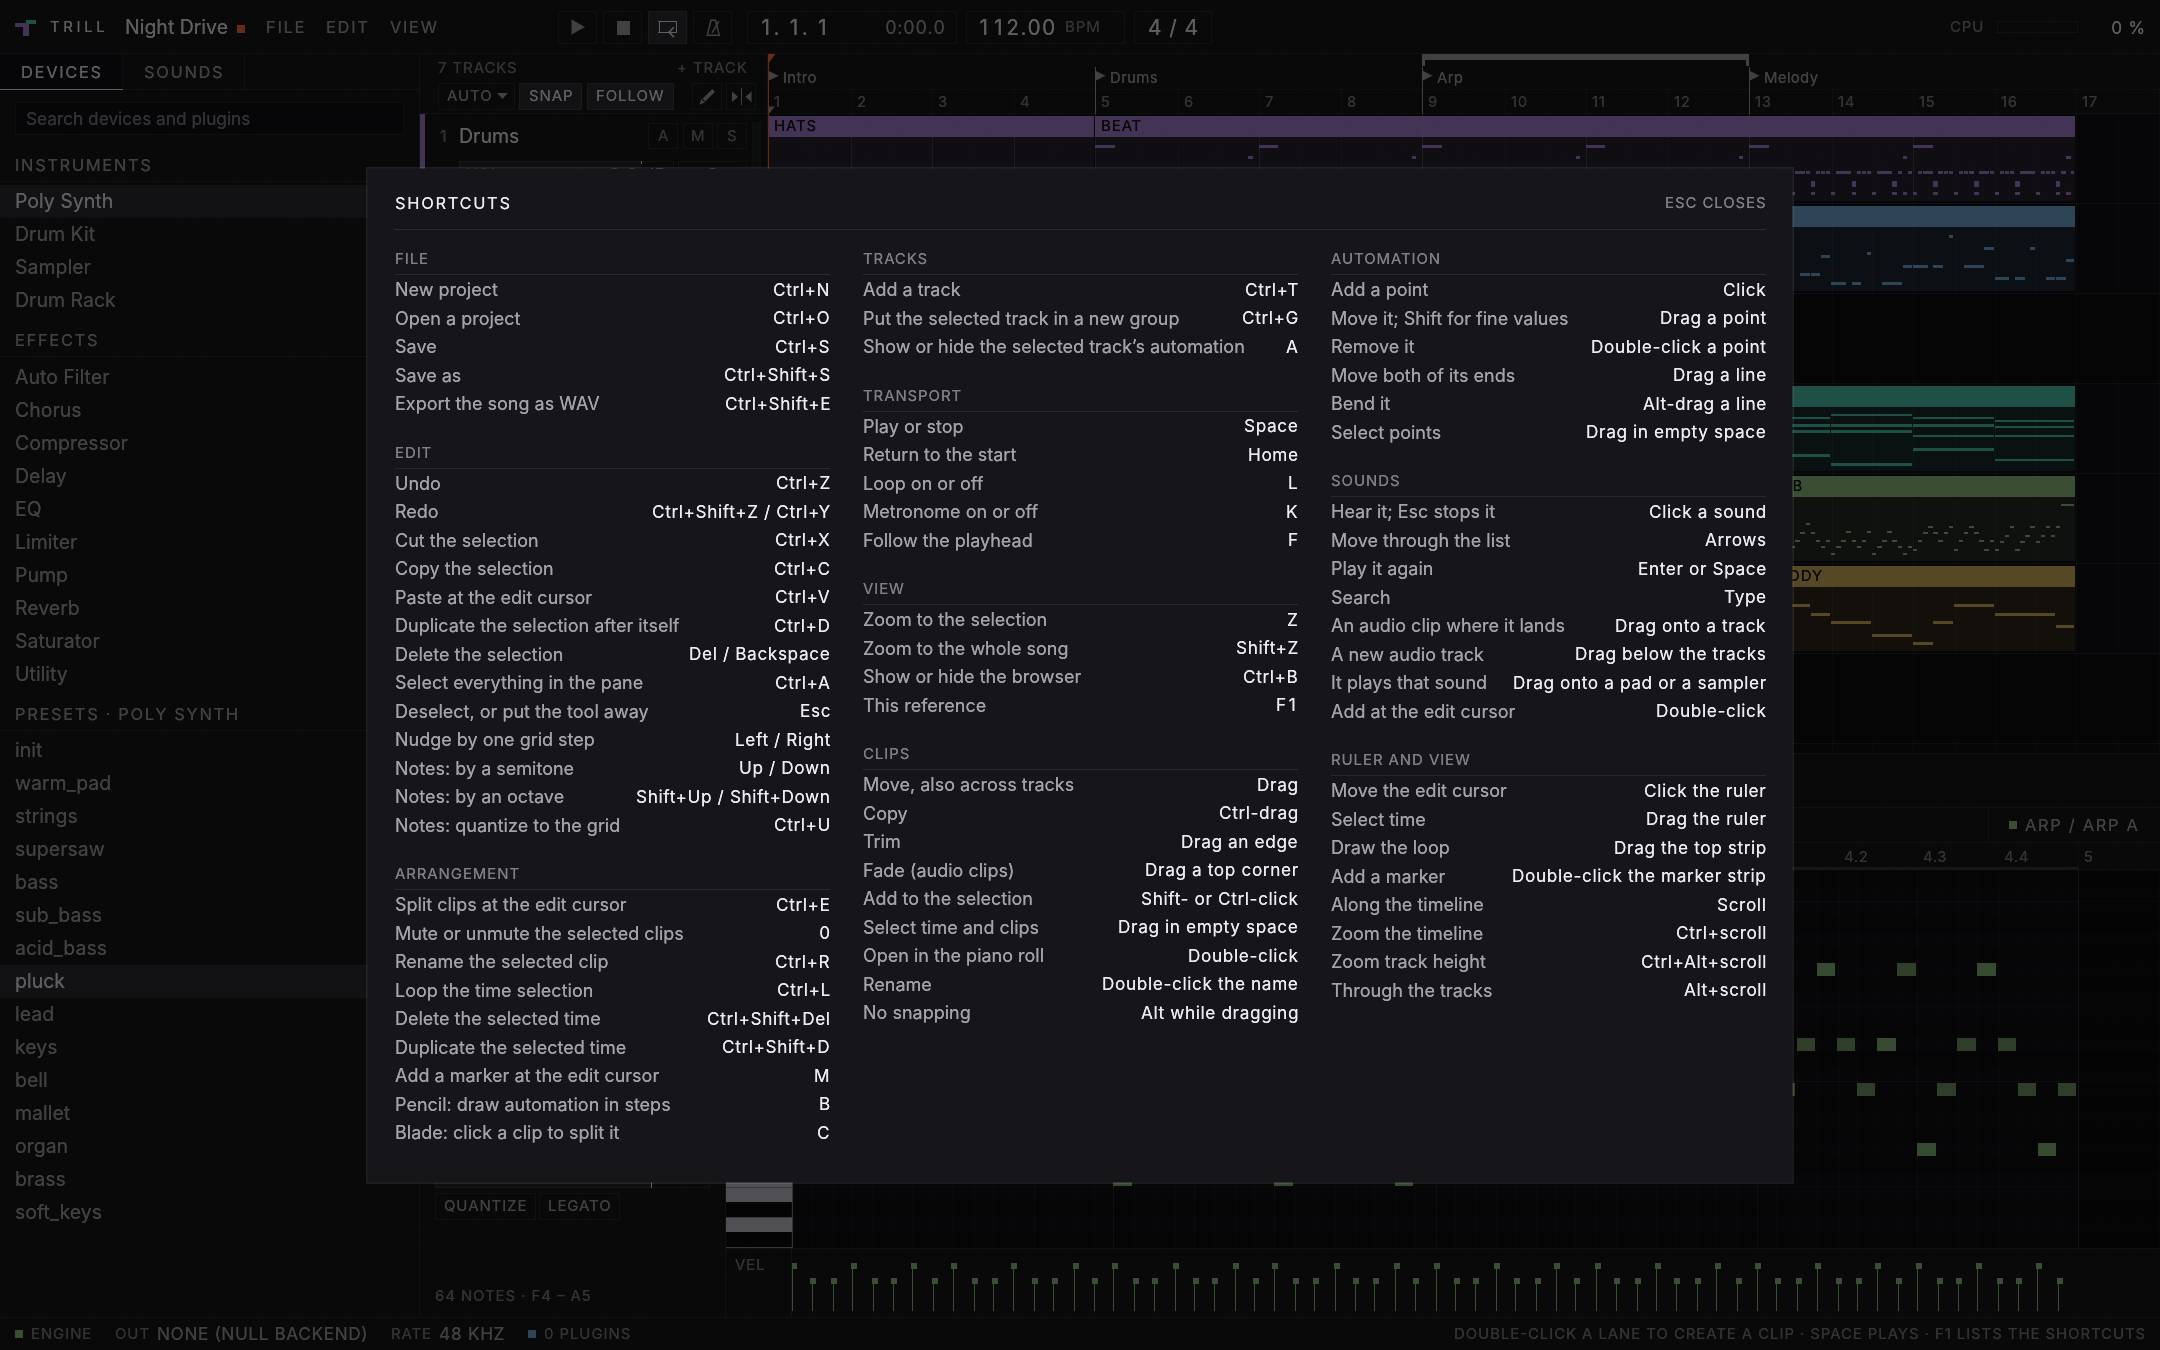
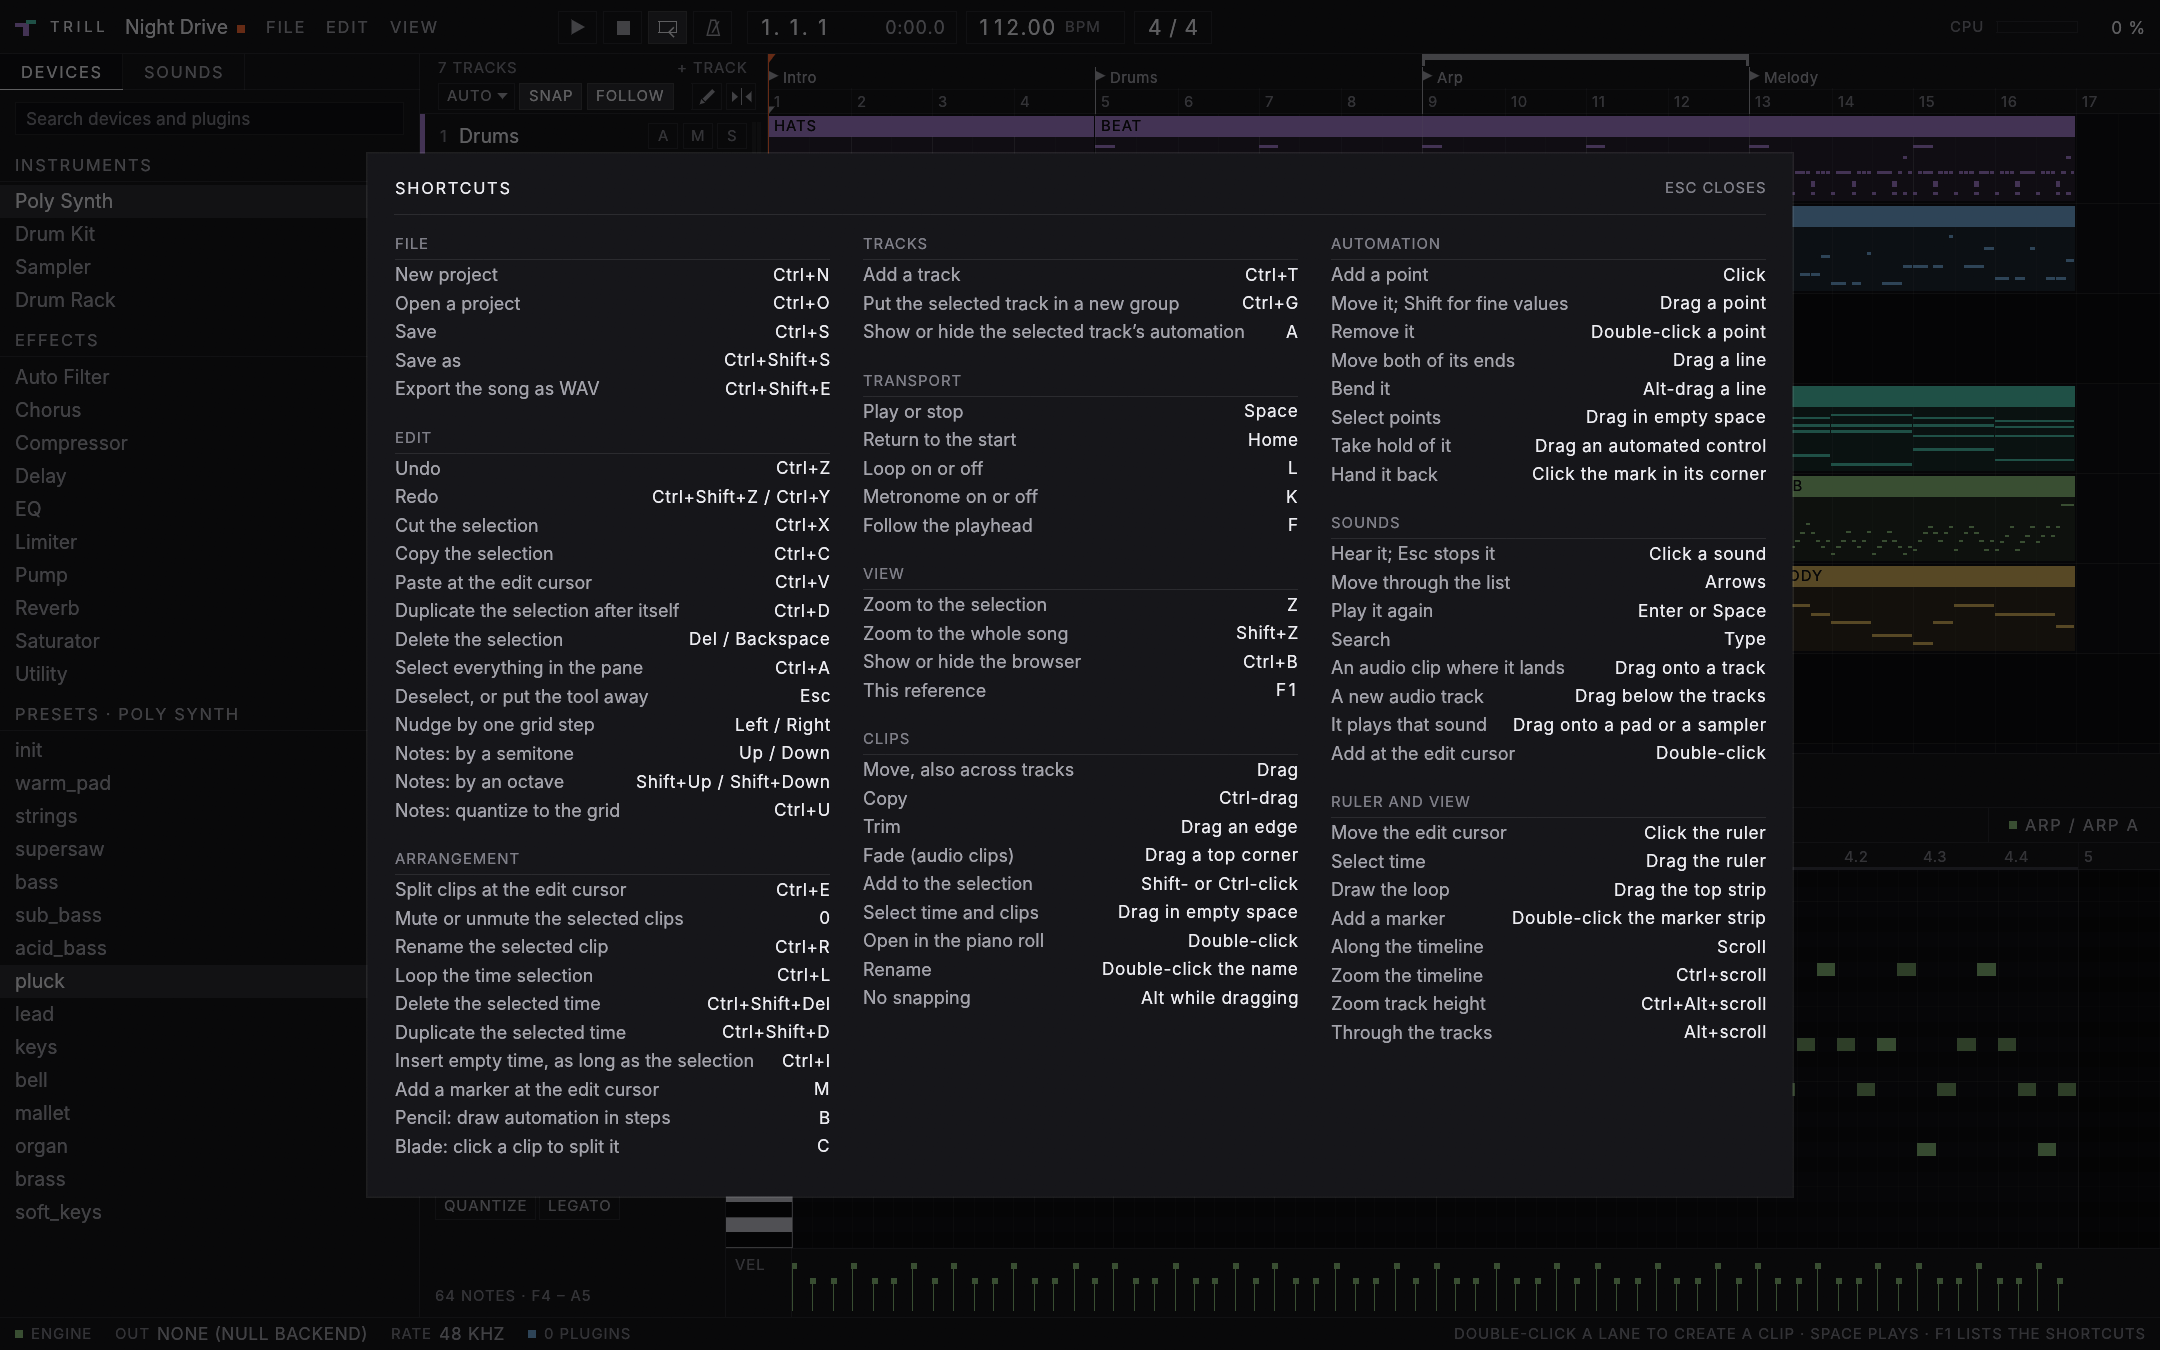
Hold an audio clip's edge until its file's length is known, and take the pictures
An audio clip's right edge could be dragged past the end of its file
while the file was still being read: the limit was only applied once the
waveform had arrived. Now the edge does not grow until the length is
known (asking for it has the file read), and still shrinks freely. A
file that cannot be read has no end to stop at, as before.

render.sh stages lost work and held envelopes with the window_fixtures
example and takes pictures of the recovery offer (both themes and the
smallest window) and of automation that has been taken hold of (lanes,
device panel, mixer, both themes). The pictures that show automation
lanes change with them: a lane with an envelope has a switch now. The
shortcut reference lists Insert time and the two takeover gestures.

The README no longer lists the editor button and the recovery prompt as
missing, and says what the window does with automated controls.

diff --git a/crates/trill-app/src/ui/tests/sounds.rs b/crates/trill-app/src/ui/tests/sounds.rs
@@ -986,6 +986,36 @@ fn an_audio_clip_shows_a_placeholder_until_its_waveform_arrives() {
 // ---- the end of the file ----------------------------------------------------
 
 #[test]
+fn an_audio_clips_edge_waits_until_the_length_of_its_file_is_known() {
+    let (mut harness, _pack, _, clips) = with_audio_clips(UiOptions::default());
+    // The kick is one beat long; here it has been trimmed to half of that,
+    // and its file is still being read: nobody knows yet where it ends.
+    let kick = clips[0];
+    harness.session.lock().edit(|project| project.set_clip_span(kick, 0.0, 0.5)).unwrap();
+    harness.runtime.media.clear();
+    harness.app.sounds().hold(true);
+    harness.idle(5);
+    let length = |harness: &Harness| harness.project().clip(kick).unwrap().length;
+    let before = harness.undo_depth();
+
+    // Dragged out now, the edge stays: it would have run past an end that
+    // is not known. It can still be dragged in.
+    harness.drag_holding(Modifiers::ALT, harness.lane(0.5, 0) - vec2(2.0, 0.0), harness.lane(5.0, 0));
+    assert_eq!(length(&harness), 0.5, "not past the end of a file nobody has measured");
+    assert_eq!(harness.undo_depth(), before, "and a drag that changed nothing is no undo step");
+    harness.drag_holding(Modifiers::ALT, harness.lane(0.5, 0) - vec2(2.0, 0.0), harness.lane(0.125, 0));
+    assert!(length(&harness) < 0.2, "shorter is always allowed: {}", length(&harness));
+
+    // Once the file has been read, the edge goes as far as the file does.
+    harness.app.sounds().hold(false);
+    harness.settle_work();
+    harness.session.lock().edit(|project| project.set_clip_span(kick, 0.0, 0.5)).unwrap();
+    harness.idle(2);
+    harness.drag_holding(Modifiers::ALT, harness.lane(0.5, 0) - vec2(2.0, 0.0), harness.lane(5.0, 0));
+    assert!((length(&harness) - 1.0).abs() < 1e-3, "{}", length(&harness));
+}
+
+#[test]
 fn an_audio_clip_cannot_be_dragged_past_the_end_of_its_file() {
     let (mut harness, _pack, _, clips) = with_audio_clips(UiOptions::default());
     harness.settle_work();

diff --git a/crates/trill-app/src/ui/arrangement/clips.rs b/crates/trill-app/src/ui/arrangement/clips.rs
@@ -172,15 +172,26 @@ pub(in crate::ui) fn file_second(clip: &Clip, audio: &AudioContent, tempo: f64, 
     audio.offset_seconds + (beat - clip.start) * audio.seconds_per_beat(tempo)
 }
 
-/// How many beats of the timeline `clip`'s file can fill from where the
-/// clip enters it: the longest the clip can be before it runs off the end
-/// of its recording. `None` for a MIDI clip, and while the file's length
-/// is not known (it has not been read yet, or cannot be).
-pub(in crate::ui) fn audio_room(cx: &Cx, clip: &Clip) -> Option<Beats> {
-    let audio = clip.audio()?;
-    let wave = cx.sounds.known_wave(&audio.path)?;
-    let seconds = (wave.seconds() - audio.offset_seconds).max(0.0);
-    Some(seconds / audio.seconds_per_beat(cx.snap.project.tempo))
+/// The length `clip` may take when it is asked to be `wanted` beats long.
+///
+/// A MIDI clip takes what it is asked, and any clip may get shorter. An
+/// audio clip stops growing where its file ends: beyond that there is
+/// nothing to play. One that is already longer (the tempo changed under
+/// it) may stay so, but not grow. While the file is still being read
+/// nobody knows where it ends, so the clip does not grow at all until that
+/// is known; asking here is what has it read. A file that cannot be read
+/// has no end to stop at, and its clip is silent at any length.
+pub(in crate::ui) fn allowed_length(cx: &Cx, clip: &Clip, wanted: Beats) -> Beats {
+    let Some(audio) = clip.audio().filter(|_| wanted > clip.length) else { return wanted };
+    match cx.sounds.wave(&audio.path) {
+        WaveState::Ready(wave) => {
+            let seconds = (wave.seconds() - audio.offset_seconds).max(0.0);
+            let room = seconds / audio.seconds_per_beat(cx.snap.project.tempo);
+            wanted.min(room.max(clip.length))
+        }
+        WaveState::Loading => clip.length,
+        WaveState::Failed(_) => wanted,
+    }
 }
 
 /// Draws what an audio clip plays: the waveform of its stretch of the

diff --git a/crates/trill-app/src/ui/arrangement/lanes.rs b/crates/trill-app/src/ui/arrangement/lanes.rs
@@ -405,13 +405,9 @@ fn drag(ui: &Ui, cx: &mut Cx, geometry: &Geometry, pointer: Pos2, free: bool) {
             ui.set_cursor_icon(CursorIcon::ResizeHorizontal);
             let Some((_, current)) = snapshot.clip(clip) else { return };
             let end = geometry.snap(geometry.beat(pointer.x), free);
-            let (start, mut length) = (current.start, (end - current.start).max(geometry.min_clip_length(free)));
-            // An audio clip stops growing where its file ends: beyond that
-            // there is nothing to play. One that is already longer (the
-            // tempo changed under it) may stay so, but not grow.
-            if let Some(room) = clips::audio_room(cx, current).filter(|_| length > current.length) {
-                length = length.min(room.max(current.length));
-            }
+            let wanted = (end - current.start).max(geometry.min_clip_length(free));
+            // An audio clip stops growing where its file ends.
+            let (start, length) = (current.start, clips::allowed_length(cx, current, wanted));
             if (current.length - length).abs() >= 1e-9 {
                 cx.edit(|project| project.set_clip_span(clip, start, length));
             }

diff --git a/crates/trill-app/src/ui/piano_roll.rs b/crates/trill-app/src/ui/piano_roll.rs
@@ -392,11 +392,9 @@ fn sidebar(ui: &mut Ui, cx: &mut Cx, clip: &Clip, rect: Rect) {
         cx.begin_gesture();
     }
     if let Some(length) = output.value {
-        let (start, mut length) = (clip.start, timeline::snap_round(length, step).max(step.unwrap_or(SHORTEST_NOTE)));
+        let wanted = timeline::snap_round(length, step).max(step.unwrap_or(SHORTEST_NOTE));
         // An audio clip does not grow past the end of its file.
-        if let Some(room) = super::arrangement::audio_room(cx, clip).filter(|_| length > clip.length) {
-            length = length.min(room.max(clip.length));
-        }
+        let (start, length) = (clip.start, super::arrangement::allowed_length(cx, clip, wanted));
         if length != clip.length {
             cx.edit(|project| project.set_clip_span(clip_id, start, length));
         }

diff --git a/crates/trill-app/src/ui/arrangement/mod.rs b/crates/trill-app/src/ui/arrangement/mod.rs
@@ -25,7 +25,7 @@ pub(super) mod ops;
 mod rows;
 mod ruler;
 
-pub(super) use clips::{audio_room, fade_level};
+pub(super) use clips::{allowed_length, fade_level};
 pub use envelopes::{delete_selected as delete_selected_points, select_all as select_all_points};
 pub use headers::{add_group_track, add_return_track, add_track, add_track_with, group_selected_track};
 pub(super) use headers::{pan_bar, send_bar};

diff --git a/crates/trill-app/src/ui/shortcuts.rs b/crates/trill-app/src/ui/shortcuts.rs
@@ -230,6 +230,8 @@ const GESTURES: &[(&str, &[(&str, &str)])] = &[
             ("Drag a line", "Move both of its ends"),
             ("Alt-drag a line", "Bend it"),
             ("Drag in empty space", "Select points"),
+            ("Drag an automated control", "Take hold of it"),
+            ("Click the mark in its corner", "Hand it back"),
         ],
     ),
     (

diff --git a/README.md b/README.md
@@ -87,8 +87,8 @@ brickwall), `chorus`, `filter` (resonant, with LFO), `pump` (sidechain-style duc
 
 **Plugins**: installed CLAP and VST3 plugins appear beside the built-in devices as `clap:<plugin id>` and
 `vst3:<class id>`. Their state is saved in the project, and their parameters are automatable and reachable over
-MCP like any other device's. A plugin's own editor opens in a window (Windows only so far), and what is changed
-there flows back into the project.
+MCP like any other device's. A plugin's own editor opens in a window (Windows only so far), from the Editor button
+on its panel or at the end of its chip in the mixer, and what is changed there flows back into the project.
 
 **Songwriting**: chords by symbol or Roman numeral, voicings, rhythms, arpeggios, bass lines, drum grooves with
 fills, melodies by scale degree, swing and humanizing, and reading a song's key and chords back from its notes
@@ -106,9 +106,15 @@ segments, group tracks and return tracks with sends, a metronome, sample-exact t
 playback, and render analysis (peak, LUFS, stereo correlation, spectral balance, per-track levels).
 
 **Application**: an arrangement with multi-clip editing (move and copy across tracks, trim either edge, split,
-fades, a clipboard, time selection), markers, group and return tracks, and automation lanes that are edited by
-hand or drawn in steps; a piano roll; device panels generated from each device's parameters; a mixer; MIDI import
-and export; project files; WAV export. `F1` lists the keyboard shortcuts.
+fades, a clipboard, time selection, and deleting, repeating or inserting a stretch of time on every track at
+once), markers, group and return tracks, and automation lanes that are edited by hand or drawn in steps; a piano
+roll; device panels generated from each device's parameters; a mixer; MIDI import and export; project files; WAV
+export. `F1` lists the keyboard shortcuts.
+
+An automated control is not locked: drag it and it is yours. Its envelope is switched off, not lost, the mark in
+the control's corner turns into an outline, and a click on that mark (or on the switch of its lane) hands the
+control back to the envelope. And when the program did not live to save a project, the window that opens next
+offers it back: recover it, discard it, or decide later (`File`, `Recover unsaved work`).
 
 The browser's **Sounds** tab is the sample library: add folders, search as you type, filter by one-shot or loop,
 kind, tempo and key, mark favorites, and hear a sound as you select it. Drag a sound onto a track for an audio
@@ -183,8 +189,7 @@ the graph is swapped on every block). The GUI is tested headlessly with simulate
 Working: everything listed above, with tests.
 
 Not yet: running plugins out of process (only scanning is isolated today, so a plugin that crashes while playing
-still takes the app with it; the safety copy is what saves the work), a button for plugin editors and a prompt
-for recovered projects in the window (both are reachable over MCP so far), plugin editors on Linux and macOS, the
+still takes the app with it; the safety copy is what saves the work), plugin editors on Linux and macOS, the
 assistant's chat panel, session (clip-launching) view, audio recording, warp markers, MIDI input devices, plugin
 delay compensation, multi-core rendering. Only Windows has been run so far.
 
